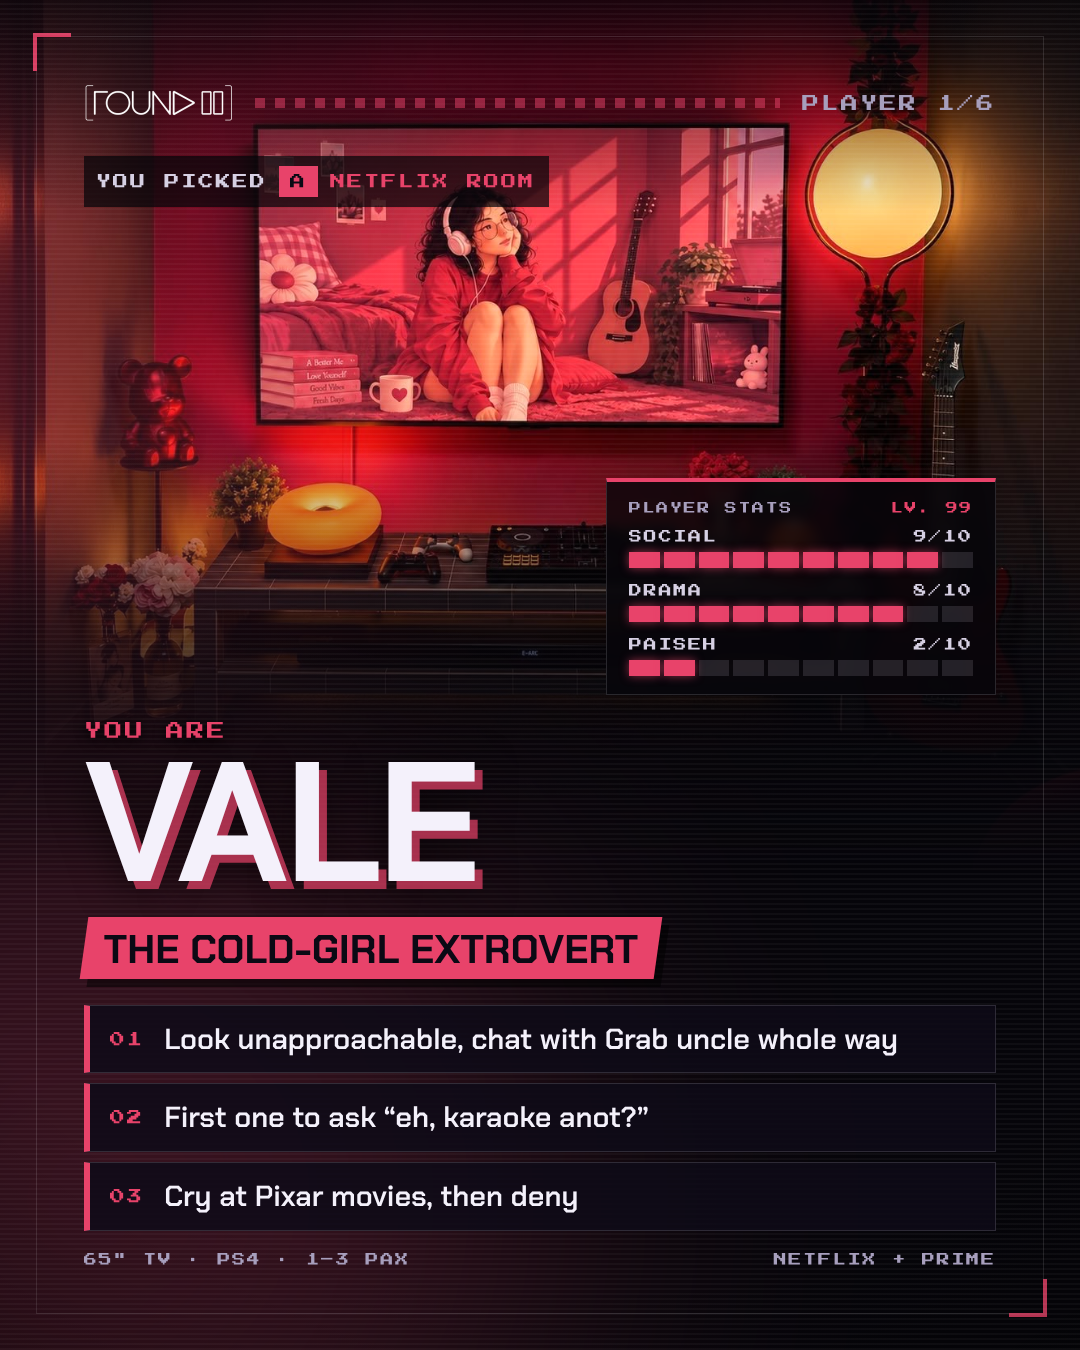
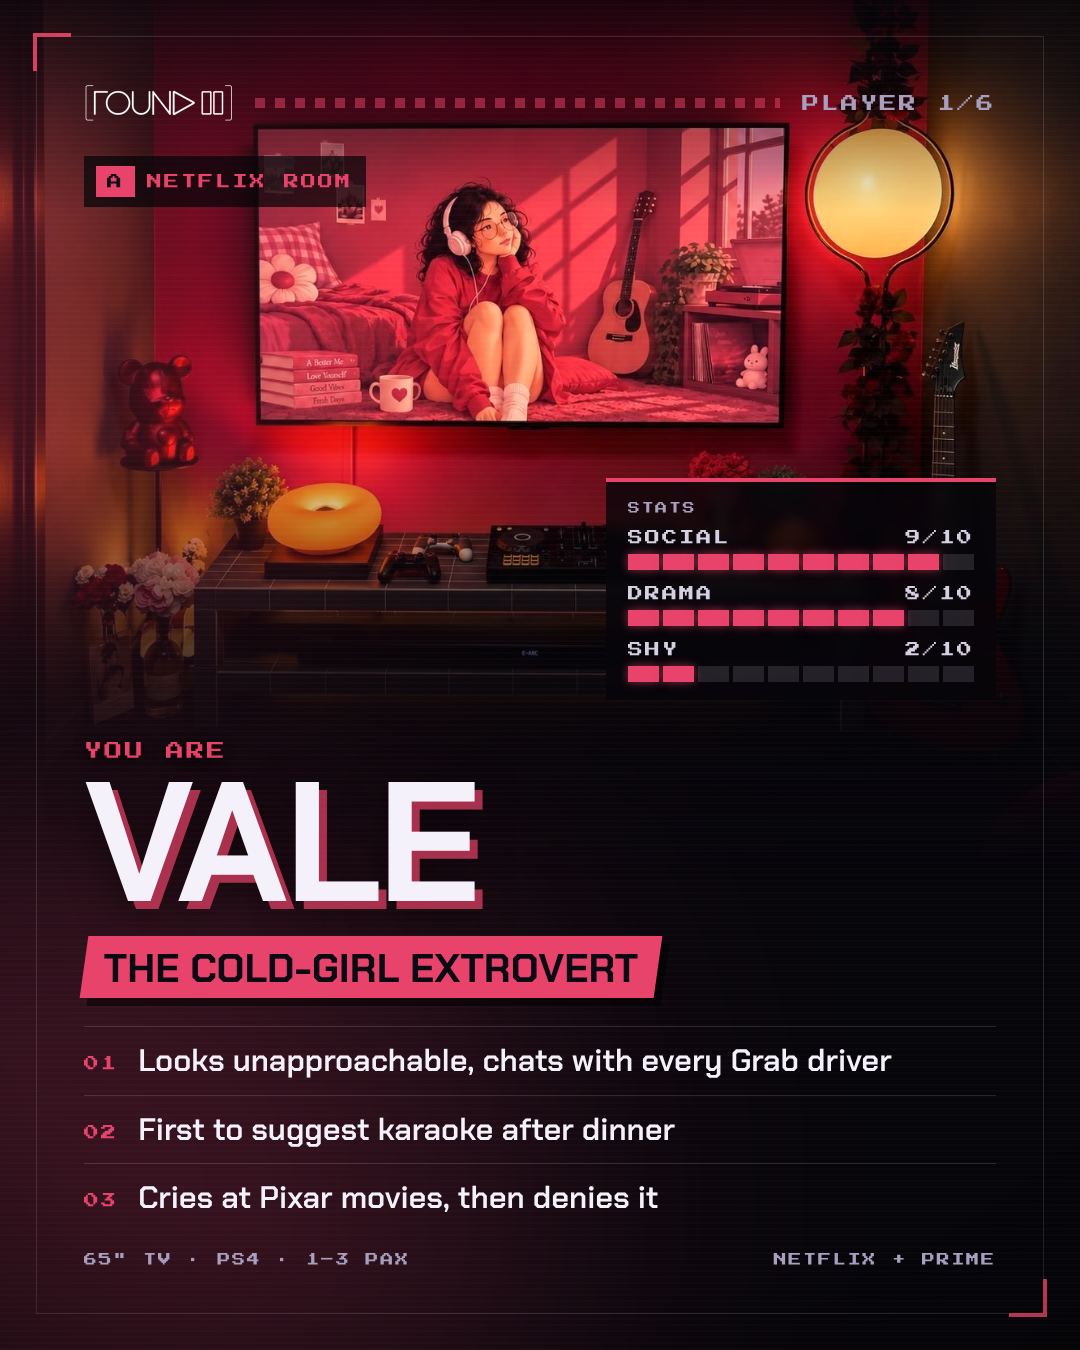
Room quiz: lighter Singlish, everyday SG references; cleaner cards (no boxes, simpler stats, softer scanlines)
Claude-Session: https://claude.ai/code/session_01PDkwSCLDYKchcH27nujJvW

diff --git a/marketing/ig-room-quiz/index.html b/marketing/ig-room-quiz/index.html
@@ -20,7 +20,7 @@ body{margin:0;background:#1a1726;font-family:'Chakra Petch',sans-serif;color:var
 body.render .deck{padding:0;gap:0}
 .slide{position:relative;width:1080px;height:1350px;overflow:hidden;background:var(--bg);flex:none;--c:var(--accent);--cink:#0b0914}
 .glow{position:absolute;width:900px;height:900px;border-radius:50%;background:var(--c);filter:blur(180px);opacity:.22}
-.scan{position:absolute;inset:0;z-index:5;pointer-events:none;background:repeating-linear-gradient(0deg,rgba(255,255,255,.035) 0 2px,transparent 2px 5px)}
+.scan{position:absolute;inset:0;z-index:5;pointer-events:none;background:repeating-linear-gradient(0deg,rgba(255,255,255,.016) 0 2px,transparent 2px 6px)}
 .vign{position:absolute;inset:0;z-index:4;pointer-events:none;background:radial-gradient(120% 90% at 50% 45%,transparent 55%,rgba(0,0,0,.7) 100%)}
 .frame{position:absolute;inset:36px;border:1px solid var(--line);z-index:3}
 .frame::before,.frame::after{content:"";position:absolute;width:34px;height:34px;border:4px solid var(--c)}
@@ -68,16 +68,16 @@ body.render .blink{animation:none}
 .type{margin-top:22px;align-self:flex-start;padding:12px 20px 10px;font-size:40px;font-weight:700;line-height:1;text-transform:uppercase;
   background:var(--c);color:var(--cink);transform:skewX(-8deg);box-shadow:8px 8px 0 rgba(0,0,0,.5)}
 .type span{display:inline-block;transform:skewX(8deg)}
-.perks{margin-top:26px;display:grid;gap:10px}
-.perk{display:flex;align-items:center;gap:20px;padding:16px 20px;background:rgba(14,11,23,.86);border:1px solid var(--line);border-left:6px solid var(--c)}
+.perks{margin-top:28px;display:grid}
+.perk{display:flex;align-items:baseline;gap:20px;padding:15px 0;border-top:1px solid var(--line)}
 .perk .n{font-size:15px;color:var(--c);flex:none}
-.perk .t{font-size:29px;font-weight:600;line-height:1.2;color:var(--ink)}
+.perk .t{font-size:31px;font-weight:600;line-height:1.2;color:var(--ink)}
 .spec{margin-top:22px;display:flex;justify-content:space-between;font-size:13px;color:var(--mute)}
-.hud{position:absolute;right:84px;top:478px;z-index:7;width:390px;padding:20px 22px 18px;background:rgba(6,5,10,.8);border:1px solid var(--line);border-top:4px solid var(--c);backdrop-filter:blur(6px)}
+.hud{position:absolute;right:84px;top:478px;z-index:7;width:390px;padding:20px 22px 18px;background:rgba(6,5,10,.8);border-top:4px solid var(--c);backdrop-filter:blur(6px)}
 .hud .h{display:flex;justify-content:space-between;font-size:12px;color:var(--mute)}
 .hud .h b{font-weight:400;color:var(--c)}
 .stat{margin-top:16px}
-.stat .lb{display:flex;justify-content:space-between;font-size:13px;color:var(--soft)}
+.stat .lb{display:flex;justify-content:space-between;font-size:15px;color:var(--soft)}
 .stat .bar{margin-top:9px;display:grid;grid-template-columns:repeat(10,1fr);gap:4px}
 .stat .bar i{height:16px;background:rgba(244,241,251,.12)}
 .stat .bar i.on{background:var(--c);box-shadow:0 0 10px color-mix(in srgb,var(--c) 60%,transparent)}
@@ -104,24 +104,24 @@ body.render .blink{animation:none}
 /* ============================ EDIT HERE ============================ */
 // One option per room. Rooms, colours and specs come from the live site. Kaeden is left out while it's under renovation.
 const QUIZ = [
-  { k:'A', room:'Vale',        night:'Look fierce, actually damn friendly',        type:'The cold-girl extrovert',
-    traits:['Look unapproachable, chat with Grab uncle whole way','First one to ask “eh, karaoke anot?”','Cry at Pixar movies, then deny'],
-    stats:[['Social',9],['Drama',8],['Paiseh',2]], sprite:'bauhaus' },
-  { k:'B', room:'Scarlett',    night:'2am still awake, overthinking one text',     type:'The 2am overthinker',
-    traits:['Reply “ok” then overthink for 3 hours','Supper at 1am, deep talk at 3am','Send a Spotify song instead of saying feelings'],
+  { k:'A', room:'Vale',        night:'Looks fierce, actually super friendly',      type:'The cold-girl extrovert',
+    traits:['Looks unapproachable, chats with every Grab driver','First to suggest karaoke after dinner','Cries at Pixar movies, then denies it'],
+    stats:[['Social',9],['Drama',8],['Shy',2]], sprite:'bauhaus' },
+  { k:'B', room:'Scarlett',    night:'Still awake at 2am, overthinking one text',   type:'The 2am overthinker',
+    traits:['Replies “ok”, then overthinks for 3 hours','Supper at 1am, deep talks at 3am','Sends a song instead of saying how she feels'],
     stats:[['Night owl',10],['Overthinking',9],['Supper cravings',8]], sprite:'moon' },
-  { k:'C', room:'Kai',         night:'Weekend plan: stay home. Can.',              type:'The “can, no problem” introvert',
-    traits:['Reply “can” to everything, and mean it','Free therapist for the whole friend group','Social battery die after one dinner'],
+  { k:'C', room:'Kai',         night:'Weekend plan: stay home and recharge',        type:'The calm introvert',
+    traits:['Replies “can” to everything, and means it','The whole group’s free therapist','Social battery dies after one dinner'],
     stats:[['Chill',10],['Patience',9],['Social battery',3]], sprite:'bonsai' },
-  { k:'D', room:'Bella',       night:'Look innocent, actually the mastermind',     type:'The innocent-face mastermind',
-    traits:['Plan the whole chaos, then “eh not me leh”','Read tarot “for fun”, but very serious','Rainy day = book, kopi, don’t disturb'],
+  { k:'D', room:'Bella',       night:'Looks innocent, actually the mastermind',     type:'The innocent-face mastermind',
+    traits:['Plans the chaos, then acts surprised','Reads tarot “for fun”, takes it seriously','Rainy day plan: a book, kopi, no texts'],
     stats:[['Mischief',9],['Mystery',8],['Alibi',10]], sprite:'candle' },
-  { k:'E', room:'Atlas',       night:'Main character, even at the hawker centre', type:'The main-character dreamer',
-    traits:['Plan Santorini trip every month, never book','Take 200 photos at Haji Lane, post none','Crush on someone after one bus stop chat'],
+  { k:'E', room:'Atlas',       night:'Main character, even at the hawker centre',   type:'The main-character dreamer',
+    traits:['Plans a Santorini trip monthly, never books','Takes 200 photos on Haji Lane, posts none','Gets a crush after one conversation'],
     stats:[['Daydreaming',10],['Romance',9],['Posting',1]], sprite:'column' },
-  { k:'F', room:'Maximillion', night:'Lose Monopoly also cannot accept one',      type:'The kiasu competitor',
-    traits:['Play Monopoly like his life depends on it','“One more round lah” at 3am','Lose already, still say “best of 3”'],
-    stats:[['Kiasu',10],['Speed',9],['Losing well',1]], sprite:'flag' },
+  { k:'F', room:'Maximillion', night:'Can’t accept losing, even at Monopoly',      type:'The kiasu competitor',
+    traits:['Plays Monopoly like his life depends on it','Says “one more round” at 3am','Loses, then asks for best of 3'],
+    stats:[['Competitive',10],['Speed',9],['Losing well',1]], sprite:'flag' },
 ];
 /* =================================================================== */
 
@@ -178,14 +178,14 @@ function cover(){
     <div class="cv-k px"><span>Round2 quiz</span><span>6 rooms · 1 you</span></div>
     <h1 class="cv-t">Which room<br><span>are you?</span></h1>
     <div class="grid">${tiles}</div>
-    <div class="cv-f px"><span>Don’t think so much lah</span><b>Swipe to see <span class="blink">▶</span></b></div>`, 'right:-380px;top:-300px');
+    <div class="cv-f px"><span>Pick fast, don’t overthink</span><b>Swipe to see <span class="blink">▶</span></b></div>`, 'right:-380px;top:-300px');
 }
 function card(q, i){
   const r = ROOMS[q.room];
   const bg = `<div class="hero">${sprite(q.sprite, r.c)}<img src="photos/${q.room.toLowerCase()}.jpg" alt="" onerror="this.remove()"></div>
-    <div class="hud"><div class="h px"><span>Player stats</span><b>Lv. 99</b></div>${q.stats.map(([l, v]) => `<div class="stat"><div class="lb px"><span>${esc(l)}</span><span>${v}/10</span></div><div class="bar">${Array.from({length:10}, (_, j) => `<i class="${j < v ? 'on' : ''}"></i>`).join('')}</div></div>`).join('')}</div>`;
+    <div class="hud"><div class="h px"><span>Stats</span></div>${q.stats.map(([l, v]) => `<div class="stat"><div class="lb px"><span>${esc(l)}</span><span>${v}/10</span></div><div class="bar">${Array.from({length:10}, (_, j) => `<i class="${j < v ? 'on' : ''}"></i>`).join('')}</div></div>`).join('')}</div>`;
   return frame(r.c, r.ink, `${topBar('Player ' + (i+1) + '/' + QUIZ.length)}
-    <div class="pick px">You picked<b>${q.k}</b><span class="tier">${esc(r.tier)}</span></div>
+    <div class="pick px"><b>${q.k}</b><span class="tier">${esc(r.tier)}</span></div>
     <div class="you px">You are</div>
     <h2 class="nm${q.room.length > 7 ? ' long' : ''}">${esc(q.room)}</h2>
     <div class="type"><span>${esc(q.type)}</span></div>
@@ -198,9 +198,9 @@ function end(){
     <img src="photos/${q.room.toLowerCase()}.jpg" alt="" onerror="this.remove()"><span class="k px">${q.k}</span>
     <span class="r px">${esc(q.room === 'Maximillion' ? 'Max' : q.room)}</span></div>`; }).join('');
   return frame('#F2C21B','#0b0914', `${topBar('Your move')}
-    <div class="en-k px">Player 2, your turn ah <span class="blink">_</span></div>
-    <h2 class="en-t">Drop your<br><em>letter lah.</em></h2>
-    <div class="en-s">Comment A–F, then tag the friend who confirm plus chop is a Bella.</div>
+    <div class="en-k px">Player 2, your turn <span class="blink">_</span></div>
+    <h2 class="en-t">Drop your<br><em>letter.</em></h2>
+    <div class="en-s">Comment A–F, then tag the friend who’s definitely a Bella.</div>
     <div class="chips">${chips}</div>
     <div class="cta"><div><div class="b px">Play your room</div><div class="a" style="margin-top:12px">Book at round2.sg</div></div><div class="a">▶</div></div>
     <div class="foot px"><span>Private movie &amp; game rooms</span><span>Haji Lane</span></div>`, 'left:-260px;bottom:-420px');
